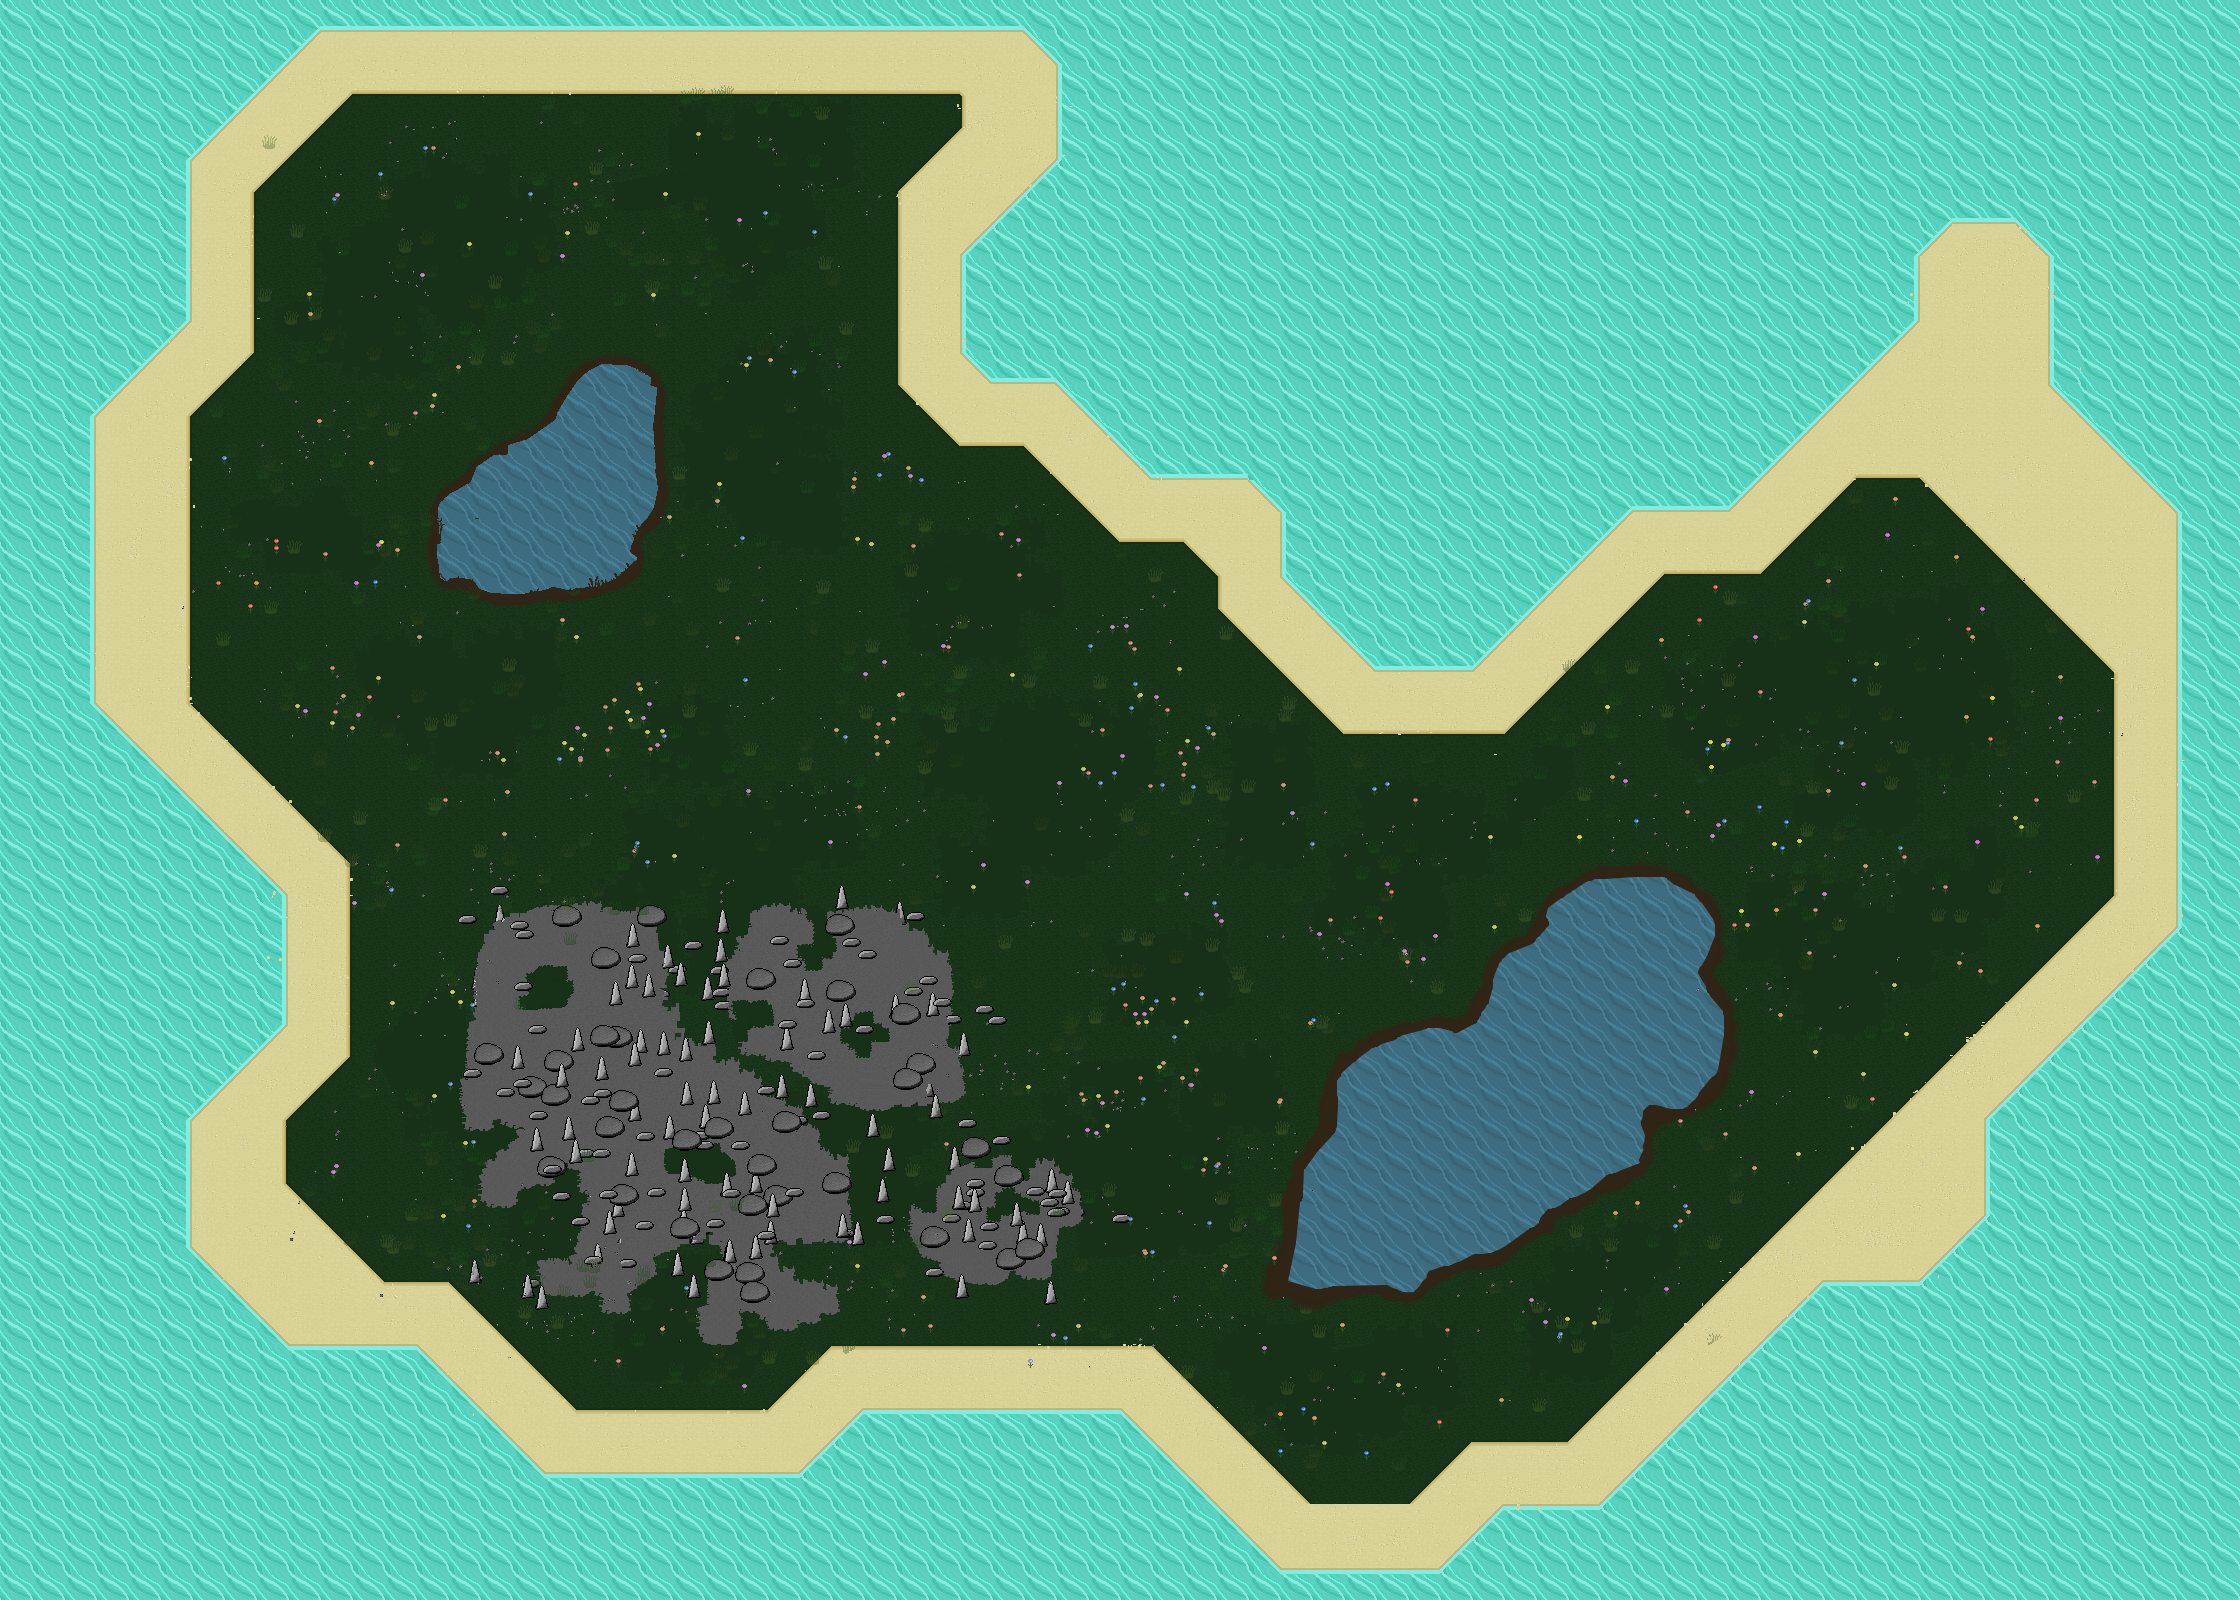
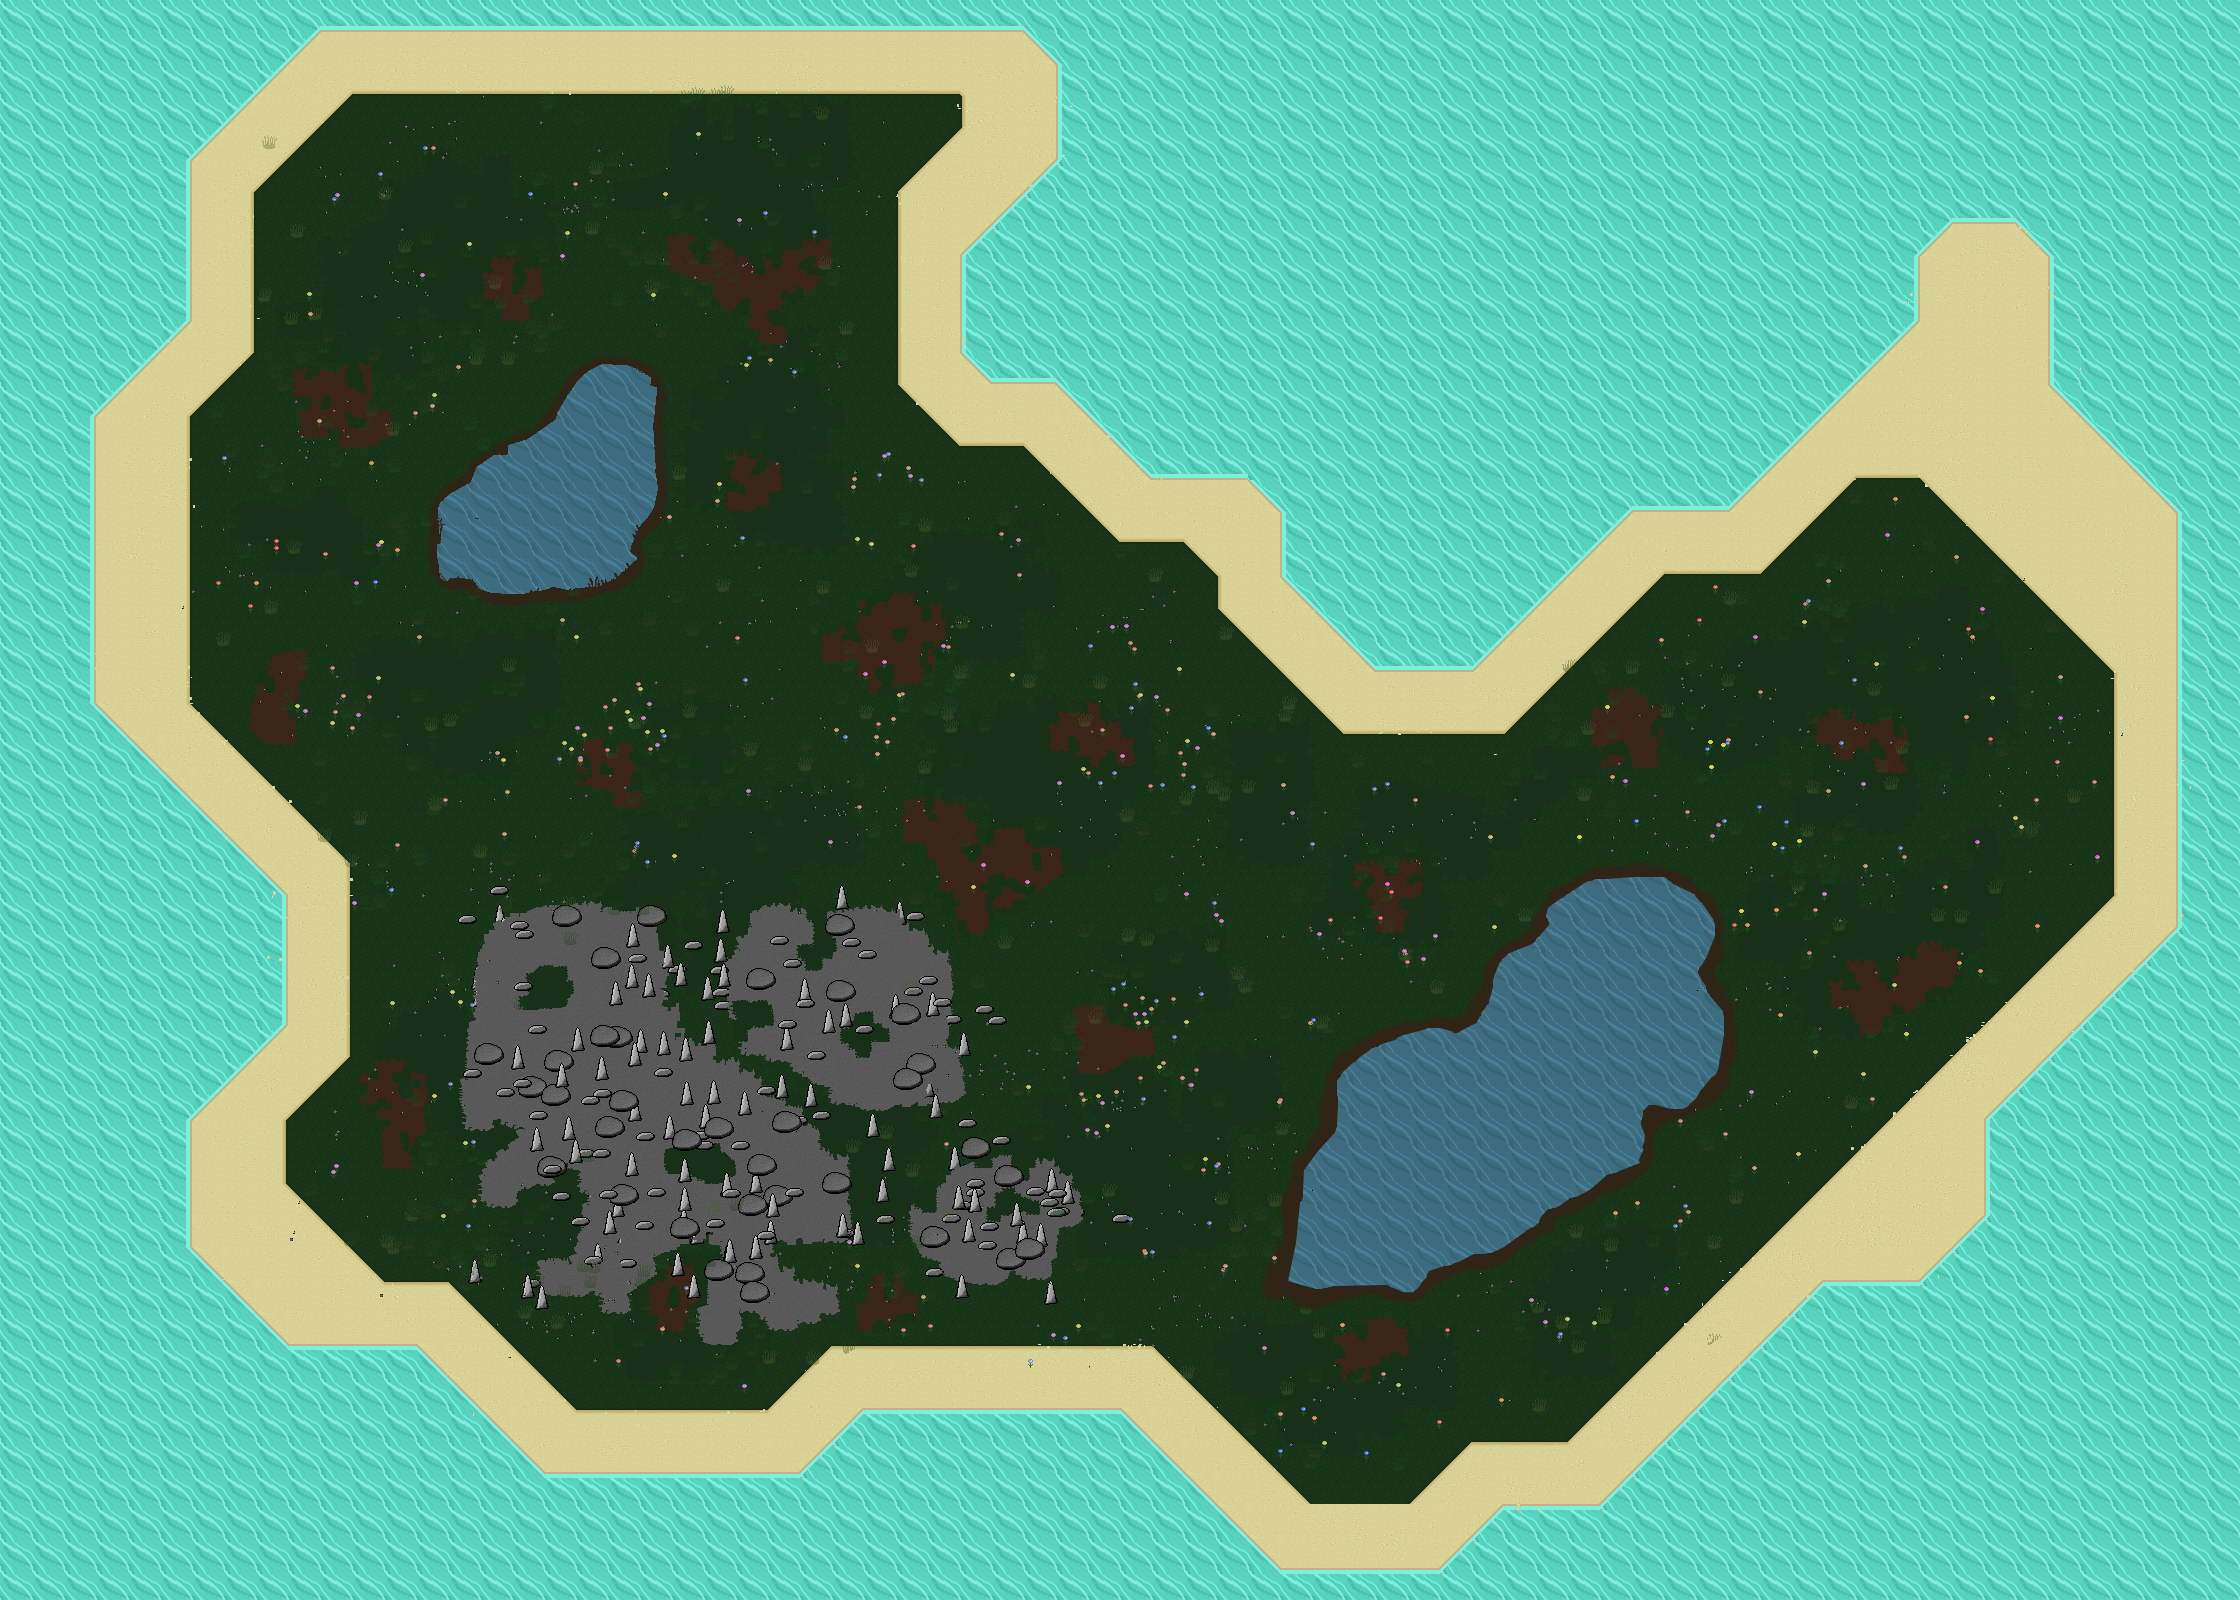
Revamped map (palm trees, dirt patches, flowers)

diff --git a/core/src/dave/game/screens/ScrMenu.java b/core/src/dave/game/screens/ScrMenu.java
@@ -15,6 +15,7 @@ import com.badlogic.gdx.scenes.scene2d.utils.ChangeListener;
 import dave.game.GamMenu;
 import dave.game.TbMenu;
 import dave.game.TbsMenu;
+import static utils.Constants.*;
 
 import java.awt.Font;
 
@@ -67,7 +68,9 @@ public class ScrMenu implements Screen, InputProcessor {
     public void btnPlayListener() {
         tbPlay.addListener(new ChangeListener() {
             public void changed(ChangeListener.ChangeEvent event, Actor actor) {
-
+                nHours = 0;
+                nMinutes = 0;
+                nSeconds = 0;
                 gamMenu.updateState(1); // switch to Play screen.
             }
         });

diff --git a/core/src/dave/game/screens/ScrPlay.java b/core/src/dave/game/screens/ScrPlay.java
@@ -90,7 +90,7 @@ public class ScrPlay extends ApplicationAdapter implements Screen, InputProcesso
     PointLight torchLight;
     float time;
     boolean day = false;
-    int nTimeFrame, nSeconds, nMinutes, nHours, nDays, nItemsTotal;
+    public static int nTimeFrame, nDays, nItemsTotal;
     //Day Night cycle source: http://pastie.org/private/8qpksvi8wy9gntolvtya
 
     Sprite sprAction;
@@ -232,7 +232,7 @@ public class ScrPlay extends ApplicationAdapter implements Screen, InputProcesso
         sanity();
         Death();
         //Test death screen
-        //hitDamage(0.5f);
+        //hitDamage(0.1f);
     }
 
     @Override

diff --git a/core/src/utils/Constants.java b/core/src/utils/Constants.java
@@ -41,4 +41,5 @@ public final class Constants {
 
     public static String sFinalTime, sFinalDays, sFinalItems;
     public static boolean oneTime = true;
+    public static int nSeconds, nMinutes, nHours;
 }
